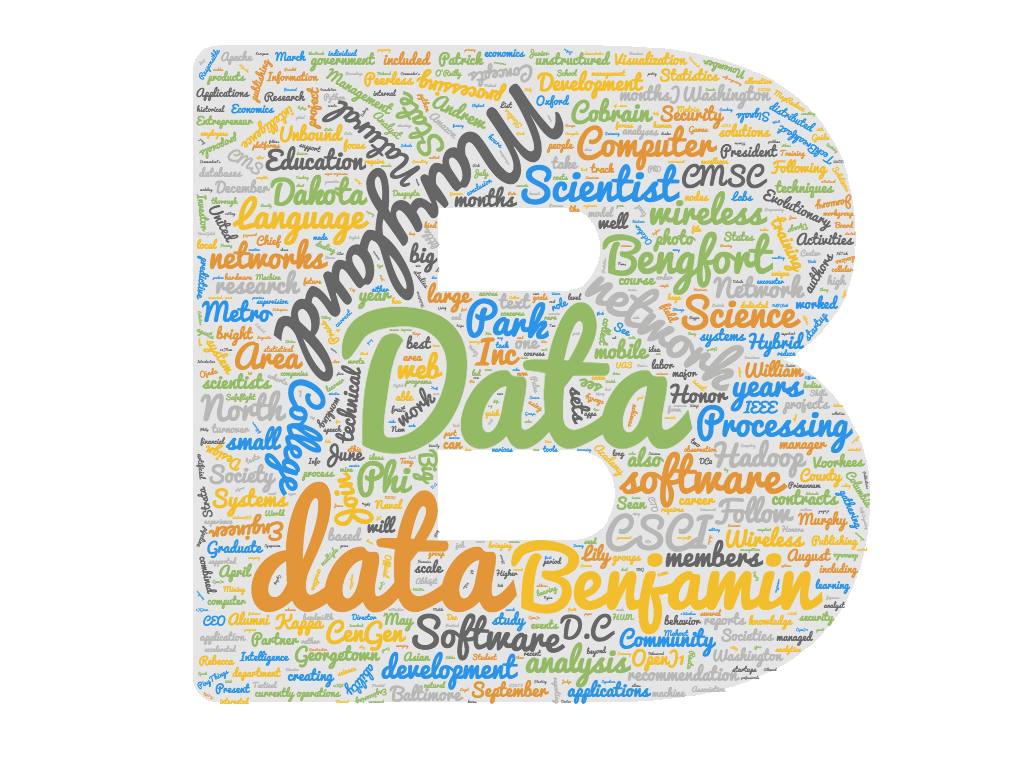
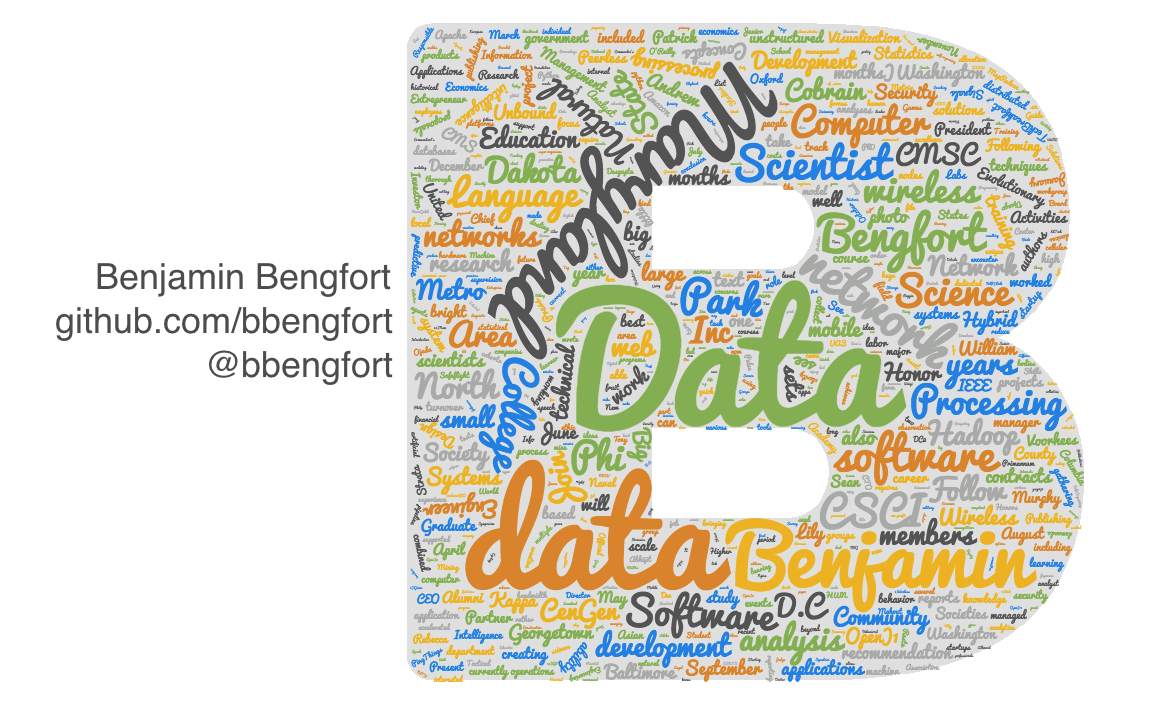
filling in missing images for bios, pipelines, baleen

diff --git a/slides/tutorial/index.html b/slides/tutorial/index.html
@@ -46,10 +46,18 @@
 			</section><!-- title slide ends -->
 
       <!-- instructors slide -->
-			<section id="instructors" data-markdown>
+			<section id="instructor-ben" data-markdown>
 				<script type="text/template">
-          TODO: Add instructor information and wordclouds: possibly use a two column layout
+					![Ben Word Cloud](images/ben_wordcloud.png)
+          <aside class="notes">
 
+          </aside>
+        </script>
+			</section>
+
+			<section id="instructor-laura" data-markdown>
+				<script type="text/template">
+					![Laura Word Cloud](images/laura_wordcloud.png)
           <aside class="notes">
 
           </aside>
@@ -98,8 +106,8 @@
 
           Suite of libraries for a variety of academic text processing tasks:
 
-          - tokenization, stemming, tagging,
-          - chunking, parsing, classification,
+          - tokenization, stemming, tagging
+          - chunking, parsing, classification
           - language modeling, logical semantics
 
           Pedagogical resources for teaching NLP theory in Python &hellip;
@@ -150,7 +158,7 @@
           - Generally applicable
           - Magic
 
-          <small><sup>*</sup>There are actually a few things that are production ready right out of the box.</small>
+          <small><sup>*</sup>There are actually a few things that are production-ready right out of the box.</small>
 
           <aside class="notes">
 
@@ -255,48 +263,37 @@
 				</script>
 			</section><!-- part two title slide ends -->
 
-      <!-- data-science-pipeline slide -->
-      <section id="data-science-pipeline" data-markdown>
-        <script type="text/template">
-          ### Data Science Pipeline
-
+			<section data-background="images/ds-pipeline.png" data-background-size="800px">
+			<h3>Data Science Pipeline</h3>
           <aside class="notes">
-            TODO: Add data science pipeline image
+            TODO: Refactor images to stand on their own.
           </aside>
-        </script>
-      </section><!-- end data-science-pipeline slide -->
+			</section><!-- end data-science-pipeline slide -->
+
 
       <!-- data-product-pipeline slide -->
-      <section id="data-product-pipeline" data-markdown>
-        <script type="text/template">
-          ### Data Product Pipeline
-
-          <aside class="notes">
-            TODO: Add data product pipeline image
+      <section data-background="images/data_product_pipeline-pp.png" data-background-size="800px">
+         <h3>Data Product Pipeline</h3>
+					<aside class="notes">
+            TODO:
           </aside>
-        </script>
       </section><!-- end data-product-pipeline slide -->
 
       <!-- baleen slide -->
-      <section id="baleen" data-markdown>
-        <script type="text/template">
-          ### Baleen
-
+      <section data-background="images/spacewhale.jpg" data-background-size="800px">
+				<h3 class="lightgrey">Baleen</h3>
           <aside class="notes">
             TODO: Add Baleen information
           </aside>
-        </script>
       </section><!-- end baleen slide -->
 
       <!-- baleen-dashboard slide -->
-      <section id="baleen-dashboard" data-markdown>
-        <script type="text/template">
-          ### Baleen Dashboard
+      <section data-background="images/baleen-screenshot.png" data-background-size="800px">
+          <h3>Baleen Dashboard</h3>
 
           <aside class="notes">
-            TODO: Add Baleen Dashboard Screenshot
+            TODO:
           </aside>
-        </script>
       </section><!-- baleen-dashboard slide ends -->
 
       <!-- corpus-reader slide -->
